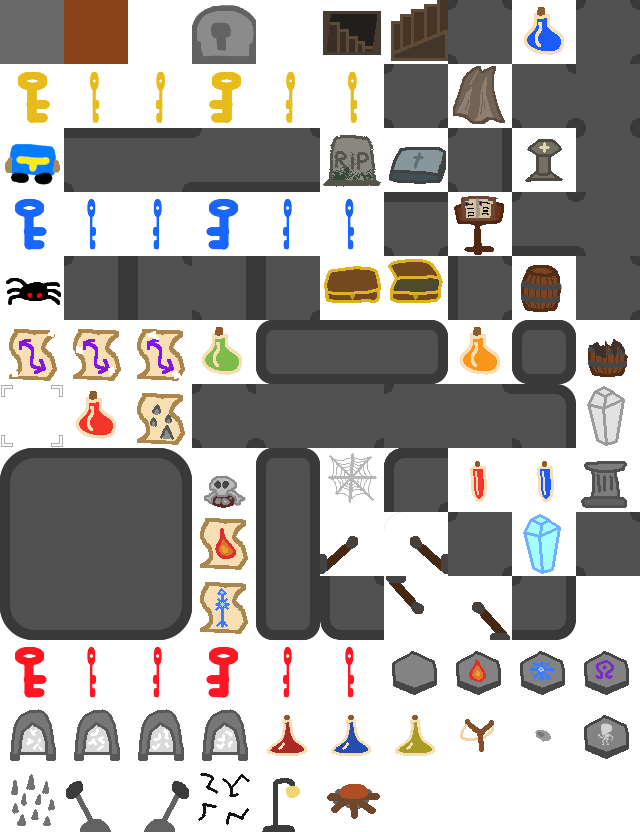
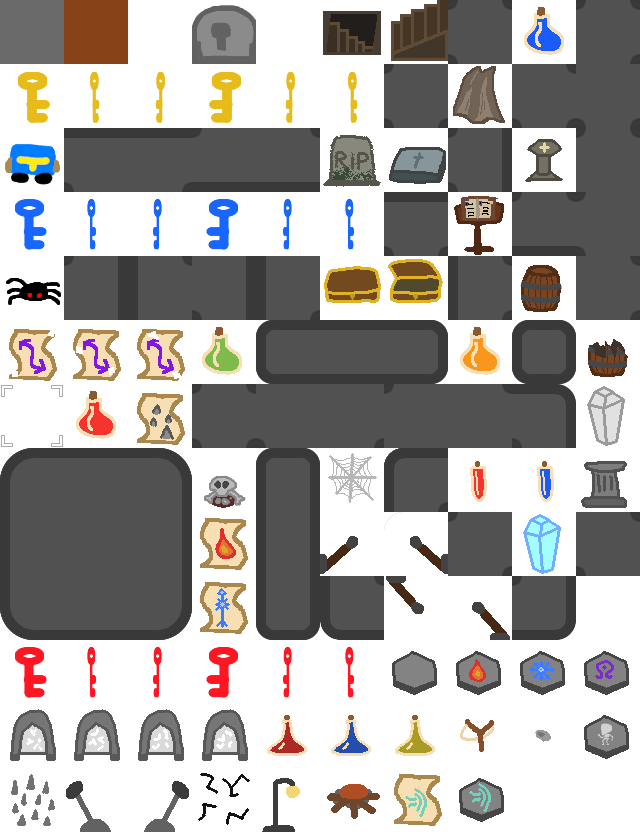
Added wind blow spells (broken)

Changed region(s): [[0.5938, 0.9062, 0.6875, 1.0], [0.7188, 0.9375, 0.8125, 1.0]]

diff --git a/Effects/CastWindBlow.cs b/Effects/CastWindBlow.cs
@@ -1,0 +1,151 @@
+using Pandorai.Creatures;
+using System;
+using System.Linq;
+using Pandorai.Tilemaps;
+using Microsoft.Xna.Framework;
+using Pandorai.ParticleSystems;
+using System.Timers;
+using Pandorai.Structures;
+using Pandorai.Utility;
+using Pandorai.Sounds;
+
+namespace Pandorai.Effects
+{
+	public class CastWindBlow : Effect
+	{
+		public int Damage;
+		public int Range;
+
+		public override void SetAttribute(string name, string value)
+		{
+			if (name == "Damage")
+			{
+				Damage = int.Parse(value);
+			}
+			else if (name == "Range")
+			{
+				Range = int.Parse(value);
+			}
+		}
+
+		public override void Use(Creature user)
+		{
+			if (user == user.Game.Player.PossessedCreature && user.Game.Player.IsInteractingWithSomeone)
+            {
+                return;
+            }
+
+			var interactableTiles = GenHelper.GetNeighbours(user.MapIndex).ToList();
+
+			user.Game.Map.HighlightTiles(interactableTiles);
+
+			user.Game.Map.EnableTileInteraction();
+
+			TileEventHandler UseHandler = null;
+
+			UseHandler = (TileInfo tile) =>
+			{
+				if (!interactableTiles.Contains(tile.Index))
+				{
+					user.Game.Map.DisableTileInteraction();
+					TileInteractionManager.TileClick -= UseHandler;
+					return;
+				}
+
+				Point dir = Point.Zero;
+				switch (interactableTiles.IndexOf(tile.Index))
+				{
+					case 0:
+						dir = new Point(-1, 0);
+						break;
+					case 1:
+						dir = new Point(1, 0);
+						break;
+					case 2:
+						dir = new Point(0, -1);
+						break;
+					case 3:
+						dir = new Point(0, 1);
+						break;
+				}
+				Vector2 velocity = dir.ToVector2() * 64 * Range;
+
+				user.Game.Player.IsInteractingWithSomeone = true;
+				user.Game.Map.DisableTileInteraction();
+				TileInteractionManager.TileClick -= UseHandler;
+
+				float time = user.Game.TurnManager.enemyTurnTime * 2;
+
+				var fireballPS = new PSFireball(user.Position, 35, user.Game.smokeParticleTexture, time, velocity, 40, 30, Color.Azure, true, user.Game);
+
+				ParticleSystemManager.AddSystem(fireballPS, true);
+
+				Timer effectTimer = new Timer(time);
+				effectTimer.Elapsed += (s, a) =>
+				{
+					if (user == user.Game.Player.PossessedCreature)
+					{
+						user.Game.TurnManager.PlayerIsReady();
+					}
+
+					user.Game.Player.IsInteractingWithSomeone = false;
+
+					effectTimer.Stop();
+					effectTimer.Dispose();
+				};
+
+				Point fireballIndex = user.MapIndex;
+				double timePassed = 0;
+				int pierceLeft = int.MaxValue;
+				Timer damageTimer = new Timer(time / Range);
+				damageTimer.Elapsed += (s, a) =>
+				{
+					timePassed += damageTimer.Interval;
+
+					if (timePassed > time)
+					{
+						damageTimer.Stop();
+						damageTimer.Dispose();
+						return;
+					}
+
+					fireballIndex += dir;
+
+					if (user.Game.Map.GetTile(fireballIndex) == null) return;
+
+					var tryCreature = user.Game.CreatureManager.GetCreature(fireballIndex);
+					if (tryCreature != null)
+					{
+						if (pierceLeft > 0)
+						{
+                            // push back
+                            tryCreature.Move(fireballIndex + dir);
+
+                            // deal damage
+							float actualDamage = Damage - Damage * (float)tryCreature.Stats.IceResistance / 100f;
+							user.Game.GameStateManager.AddSynchronizedAction(() => tryCreature.GetHit(actualDamage, user));
+							pierceLeft--;
+						}
+					}
+					else if (user.Game.Map.GetTile(fireballIndex).CollisionFlag)
+					{
+						pierceLeft = 0;
+						fireballPS.Disintegrate();
+					}
+				};
+
+				effectTimer.Start();
+				damageTimer.Start();
+				SoundManager.PlaySound("fireball0");
+				DisplayMessage(user);
+			};
+
+			TileInteractionManager.TileClick += UseHandler;
+		}
+
+        protected override string GetMessage()
+        {
+            return "You cast an ice projectile";
+        }
+    }
+}

diff --git a/Sprites/TilesheetManager.cs b/Sprites/TilesheetManager.cs
@@ -153,6 +153,9 @@ namespace Pandorai.Sprites
 			AddMapSprite(128, 0, 64, 64, 0, 0); // invisible 103
 
 			AddMapSprite(576, 704, 64, 64, 0, 0); // summon skeleton rune 104
+
+			AddMapSprite(384, 768, 64, 64, 0, 0); // wind blow spell 105
+			AddMapSprite(448, 768, 64, 64, 0, 0); // wind blow rune 106
 		}
 
 		public static void AddCreatureSprite(int startX, int startY, int spriteWidth, int spriteHeight, int frameCount, float timePerFrame)

diff --git a/TypeLegends.cs b/TypeLegends.cs
@@ -28,6 +28,7 @@ namespace Pandorai
 			{ "Blink", typeof(Blink) },
 			{ "Slingshot", typeof(Slingshot) },
 			{ "SummonCreature", typeof(SummonCreature) },
+			{ "CastWindBlow", typeof(CastWindBlow) },
 		};
 
         
